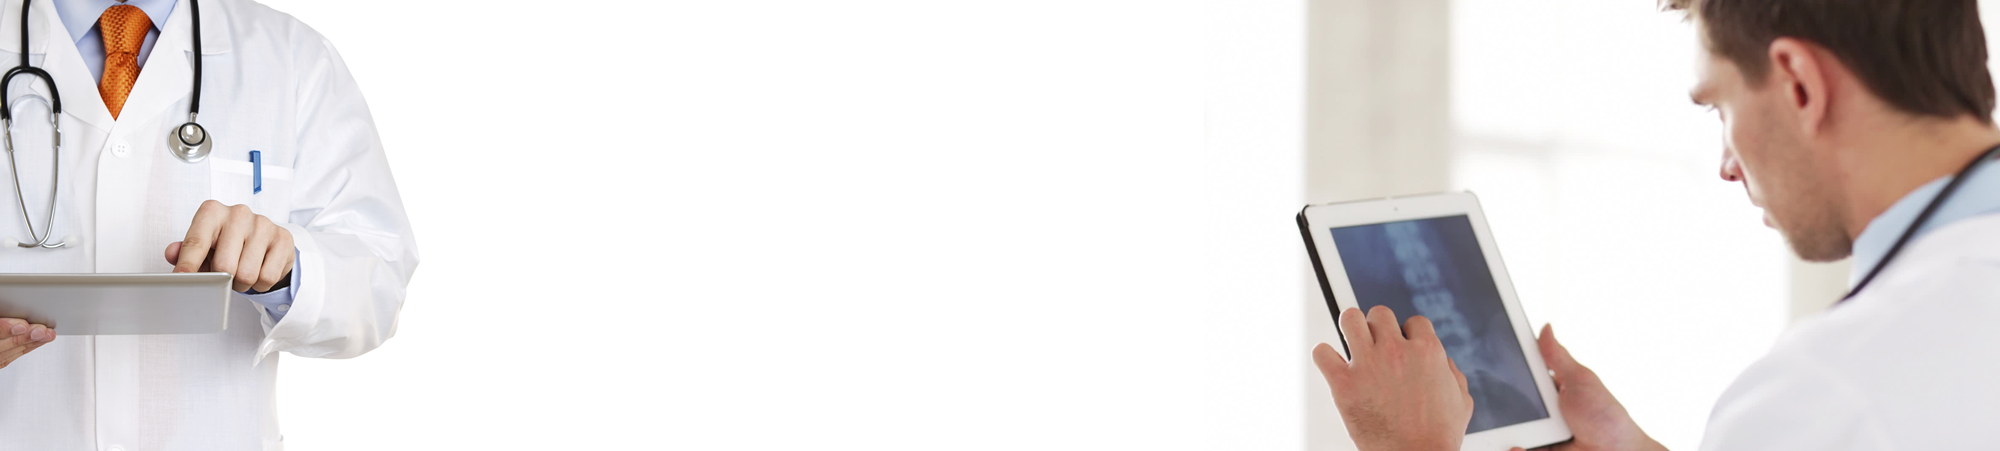
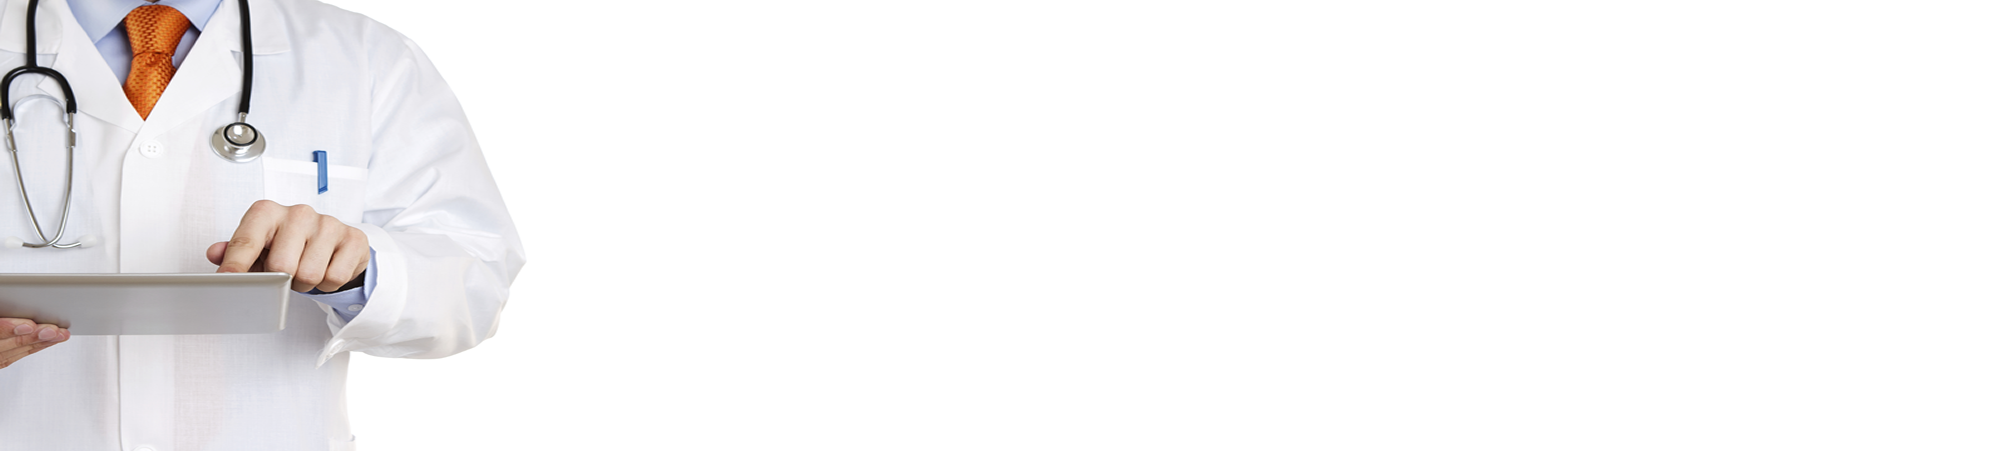
AJUSTES de imagenes, espaciado en responsive desing a intro

diff --git a/css/intro.css b/css/intro.css
@@ -1,2 +1,2 @@
 /* normalize.css v3.0.2 | MIT License | git.io/normalize */
-html{font-family:sans-serif;-ms-text-size-adjust:100%;-webkit-text-size-adjust:100%;}body{margin:0}article,aside,details,figcaption,figure,footer,header,hgroup,main,menu,nav,section,summary{display:block}audio,canvas,progress,video{display:inline-block;vertical-align:baseline;}audio:not([controls]){display:none;height:0}[hidden],template{display:none}a{background-color:transparent}a:active,a:hover{outline:0}abbr[title]{border-bottom:1px dotted}b,strong{font-weight:bold}dfn{font-style:italic}h1{font-size:2em;margin:.67em 0}mark{background:#ff0;color:#000}small{font-size:80%}sub,sup{font-size:75%;line-height:0;position:relative;vertical-align:baseline}sup{top:-.5em}sub{bottom:-.25em}img{border:0}svg:not(:root){overflow:hidden}figure{margin:1em 40px}hr{-moz-box-sizing:content-box;box-sizing:content-box;height:0}pre{overflow:auto}code,kbd,pre,samp{font-family:monospace,monospace;font-size:1em}button,input,optgroup,select,textarea{color:inherit;font:inherit;margin:0;}button{overflow:visible}button,select{text-transform:none}button,html input[type="button"],input[type="reset"],input[type="submit"]{-webkit-appearance:button;cursor:pointer;}button[disabled],html input[disabled]{cursor:default}button::-moz-focus-inner,input::-moz-focus-inner{border:0;padding:0}input{line-height:normal}input[type="checkbox"],input[type="radio"]{box-sizing:border-box;padding:0;}input[type="number"]::-webkit-inner-spin-button,input[type="number"]::-webkit-outer-spin-button{height:auto}input[type="search"]{-webkit-appearance:textfield;-moz-box-sizing:content-box;-webkit-box-sizing:content-box;box-sizing:content-box}input[type="search"]::-webkit-search-cancel-button,input[type="search"]::-webkit-search-decoration{-webkit-appearance:none}fieldset{border:1px solid #c0c0c0;margin:0 2px;padding:.35em .625em .75em}legend{border:0;padding:0;}textarea{overflow:auto}optgroup{font-weight:bold}table{border-collapse:collapse;border-spacing:0}td,th{padding:0}@media only screen and (max-width:1024px){}.font-black{color:#000}.font-white{color:#fff}body{background:#fff url("../images/pattern.png") repeat top left;font-family:'PT Sans Narrow',Arial,sans-serif;font-size:16px;}body a{text-decoration:none;color:#000}body h2{font-size:1.1rem;text-align:center}.header{color:#fff;position:fixed;width:100%;height:25px;line-height:24px;top:0;font-size:.8rem;background-color:#0055a5;opacity:.9;z-index:4}.header a{padding:5px 10px;letter-spacing:1px;color:#fff;text-align:right;text-decoration:none}.header a:hover{color:#fff}.header a span{font-weight:bold;text-transform:uppercase}.header span.right_ab{position:absolute;right:4px}#logo img{width:200px;height:100px}#logo h1{margin:0 50px;color:#b60050;text-transform:uppercase}#logo span{display:block;font-size:16px;text-transform:none;margin:-15px 70px}.container{width:100%;height:auto;position:relative;z-index:100;margin:40px 0;padding:0}.va-container{position:relative;margin:40px auto}.va-wrapper{width:100%;height:100%;position:relative;overflow:hidden;background-color:#0055a5}.va-title{font-family:'Open Sans Condensed',sans-serif;text-transform:uppercase;font-size:2rem;margin-left:300px;margin-top:-30px;color:#000;text-shadow:5px 5px 8px #555;text-align:center}.va-content{display:none;margin-left:400px;width:100%}.va-slice{cursor:pointer;width:100%;overflow:hidden;}.va-slice p{font-size:22px;font-style:italic;font-family:Georgia,serif}.va-slice ul{list-style:none}.va-slice ul li{float:left;margin:0 30px}.va-slice ul li a{color:#fff;background:#b60050;padding:10px 6px;font-size:14px;font-family:'PT Sans',sans-serif;text-transform:uppercase;text-decoration:none}.va-slice ul li a:hover{background:#000;color:#fff;text-shadow:none}.va-slice-1{background:#fff url("../images/version-medico.png") no-repeat center center;background-size:100% 100%}.va-slice-2{background:#fff url("../images/version-paciente.png") no-repeat center center;background-size:100% 100%}.va-slice-3{background:#fff url("../images/atenea-pharma.png") no-repeat center center;background-size:100% 100%}.va-nav span{width:40px;height:25px;background:transparent url("../images/prev.png") no-repeat center center;position:absolute;top:-35px;left:50%;margin-left:-20px;text-indent:-9000px;opacity:.7;cursor:pointer;display:none;z-index:100}.va-nav span.va-nav-next{background-image:url("../images/next.png");top:auto;bottom:-35px}.va-nav span:hover{opacity:1}footer{text-align:center;Vertical-align:center;width:100%;height:70px;background-color:#0055a5;color:#fff;margin:0 auto;padding-top:50px;padding:10px 0}footer .cpy{font-size:1.3rem}.button{width:70px;background:#ff0;display:inline-block;margin:0 auto;margin-top:1%;padding:1px;text-align:center;text-decoration:none;color:#fff !important;cursor:pointer;transition:background .3s;-webkit-transition:background .3s}.button:hover{background-color:#ccc}#login{margin:0 auto;margin-top:0;transition:opacity 1s;-webkit-transition:opacity 1s}#triangle{width:0;border-top:12px solid transparent;border-right:12px solid transparent;border-bottom:12px solid #39c;border-left:12px solid transparent;margin:0 auto}#login h1{background:#b60050;padding:10px;font-size:140%;font-weight:300;text-align:center;color:#fff;width:100%;margin:0}form{background:#f0f0f0;text-align:center;width:100%;-webkit-animation:all 3s ease-in-out;-moz-animation:all 3s ease-in-out;-ms-animation:all 3s ease-in-out;-o-animation:all 3s ease-in-out;animation:all 3s ease-in-out;}form input[type="email"],form input[type="password"],form width 150px,form background #fff,form border 1px solid #ccc,form font-family 'Open Sans',form sans-serif,form font-size 95%,form color #555,form input[type="submit"],form width 120px,form background #3399cc,form border 0,form font-size 100%,form color #fff,form cursor pointer,form transition background .3s,form -webkit-transition background .3s,form input[type="submit"]:hover{background:#28b}
+html{font-family:sans-serif;-ms-text-size-adjust:100%;-webkit-text-size-adjust:100%;}body{margin:0}article,aside,details,figcaption,figure,footer,header,hgroup,main,menu,nav,section,summary{display:block}audio,canvas,progress,video{display:inline-block;vertical-align:baseline;}audio:not([controls]){display:none;height:0}[hidden],template{display:none}a{background-color:transparent}a:active,a:hover{outline:0}abbr[title]{border-bottom:1px dotted}b,strong{font-weight:bold}dfn{font-style:italic}h1{font-size:2em;margin:.67em 0}mark{background:#ff0;color:#000}small{font-size:80%}sub,sup{font-size:75%;line-height:0;position:relative;vertical-align:baseline}sup{top:-.5em}sub{bottom:-.25em}img{border:0}svg:not(:root){overflow:hidden}figure{margin:1em 40px}hr{-moz-box-sizing:content-box;box-sizing:content-box;height:0}pre{overflow:auto}code,kbd,pre,samp{font-family:monospace,monospace;font-size:1em}button,input,optgroup,select,textarea{color:inherit;font:inherit;margin:0;}button{overflow:visible}button,select{text-transform:none}button,html input[type="button"],input[type="reset"],input[type="submit"]{-webkit-appearance:button;cursor:pointer;}button[disabled],html input[disabled]{cursor:default}button::-moz-focus-inner,input::-moz-focus-inner{border:0;padding:0}input{line-height:normal}input[type="checkbox"],input[type="radio"]{box-sizing:border-box;padding:0;}input[type="number"]::-webkit-inner-spin-button,input[type="number"]::-webkit-outer-spin-button{height:auto}input[type="search"]{-webkit-appearance:textfield;-moz-box-sizing:content-box;-webkit-box-sizing:content-box;box-sizing:content-box}input[type="search"]::-webkit-search-cancel-button,input[type="search"]::-webkit-search-decoration{-webkit-appearance:none}fieldset{border:1px solid #c0c0c0;margin:0 2px;padding:.35em .625em .75em}legend{border:0;padding:0;}textarea{overflow:auto}optgroup{font-weight:bold}table{border-collapse:collapse;border-spacing:0}td,th{padding:0}@media only screen and (max-width:1000px){body{margin:5px}.header a span{font-size:11px}.header span.right_ab{display:none}.va-wrapper{width:400px;height:100%;position:relative;overflow:hidden}.va-title{font-size:16px !important;margin-left:0 !important;text-align:right !important}footer{text-align:center;Vertical-align:center;width:100%;height:auto;background-color:$atenea_azul;color:#fff;}footer .cpy,footer .date{font-size:.7rem !important}}.font-black{color:#000}.font-white{color:#fff}body{background:#fff url("../images/pattern.png") repeat top left;font-family:'PT Sans Narrow',Arial,sans-serif;font-size:16px;}body a{text-decoration:none;color:#000}body h2{font-size:1.1rem;text-align:center}.header{color:#fff;position:fixed;width:100%;height:25px;line-height:24px;top:0;font-size:.8rem;background-color:#0055a5;opacity:.9;z-index:4}.header a{padding:5px 10px;letter-spacing:1px;color:#fff;text-align:right;text-decoration:none}.header a:hover{color:#fff}.header a span{font-weight:bold;text-transform:uppercase}.header span.right_ab{position:absolute;right:4px}#logo img{width:200px;height:100px}#logo h1{margin:50px 50px;color:#b60050;text-transform:uppercase}#logo span{display:block;font-size:16px;text-transform:none;margin:-15px 70px}.container{width:100%;height:auto;position:relative;z-index:100;margin:40px 0;padding:0}.va-container{position:relative;margin:40px auto}.va-wrapper{width:100%;height:100%;position:relative;overflow:hidden}.va-title{font-family:'Open Sans Condensed',sans-serif;text-transform:uppercase;font-size:2rem;margin-left:300px;margin-top:-30px;color:#000;text-shadow:5px 5px 8px #555;text-align:center}.va-content{display:none;margin-left:400px;width:100%}.va-slice{cursor:pointer;width:100%;overflow:hidden;}.va-slice p{font-size:22px;font-style:italic;font-family:Georgia,serif}.va-slice ul{list-style:none}.va-slice ul li{float:left;margin:0 30px}.va-slice ul li a{color:#fff;background:#b60050;padding:10px 6px;font-size:14px;font-family:'PT Sans',sans-serif;text-transform:uppercase;text-decoration:none}.va-slice ul li a:hover{background:#000;color:#fff;text-shadow:none}.va-slice-1{background:#fff url("../images/version-medico.png") no-repeat center center;background-size:100% 100%}.va-slice-2{background:#fff url("../images/version-publico.png") no-repeat center center;background-size:100% 100%}.va-slice-3{background:#fff url("../images/atenea-pharma.png") no-repeat center center;background-size:100% 100%}.va-nav span{width:40px;height:25px;background:transparent url("../images/prev.png") no-repeat center center;position:absolute;top:-35px;left:50%;margin-left:-20px;text-indent:-9000px;opacity:.7;cursor:pointer;display:none;z-index:100}.va-nav span.va-nav-next{background-image:url("../images/next.png");top:auto;bottom:-35px}.va-nav span:hover{opacity:1}footer{text-align:center;Vertical-align:center;width:100%;height:auto;background-color:#0055a5;color:#fff;margin:5px auto;}footer .cpy{font-size:1.3rem;padding:10px 0}.button{width:70px;background:#ff0;display:inline-block;margin:0 auto;margin-top:1%;padding:1px;text-align:center;text-decoration:none;color:#fff !important;cursor:pointer;transition:background .3s;-webkit-transition:background .3s}.button:hover{background-color:#ccc}#login{margin:0 auto;margin-top:0;transition:opacity 1s;-webkit-transition:opacity 1s}#triangle{width:0;border-top:12px solid transparent;border-right:12px solid transparent;border-bottom:12px solid #39c;border-left:12px solid transparent;margin:0 auto}#login h1{background:#b60050;padding:10px;font-size:140%;font-weight:300;text-align:center;color:#fff;width:100%;margin:0}form{background:#f0f0f0;text-align:center;width:100%;-webkit-animation:all 3s ease-in-out;-moz-animation:all 3s ease-in-out;-ms-animation:all 3s ease-in-out;-o-animation:all 3s ease-in-out;animation:all 3s ease-in-out;}form input[type="email"],form input[type="password"],form width 150px,form background #fff,form border 1px solid #ccc,form font-family 'Open Sans',form sans-serif,form font-size 95%,form color #555,form input[type="submit"],form width 120px,form background #3399cc,form border 0,form font-size 100%,form color #fff,form cursor pointer,form transition background .3s,form -webkit-transition background .3s,form input[type="submit"]:hover{background:#28b}

diff --git a/index.php b/index.php
@@ -38,7 +38,7 @@
 				<span>Una Publicación más de Atenea Pharma</span>
 			</a>
 			<span class="right_ab">
-				Para continuar, es necesario<strong><a href="#">Registrarse</a></strong>El Médico Profesionista podrá consultar información exclusiva e información de eventos y congresos.
+				Para continuar, es necesario<strong><a href="#">Registrarse</a></strong>El Médico Profesionista podrá consultar información exclusiva sobre eventos, congresos y entrevistas.
 			</span>
 		</div>
 						<!--LOGIN-->
@@ -75,7 +75,7 @@
 						<div class="va-content">
 							<p>Acceso Suscriptores</p>
 							<ul>						
-								<li id="toggle-login"><a href="medico">Entrar</a></li>
+								<li id="toggle-login"><a href="#">Entrar</a></li>
 								<li><a href="registro-revista-relax.html">Registrarse</a></li>
 								<li><a href="#">¿Por qué registrarme?</a></li>
 							</ul>
@@ -86,11 +86,11 @@
 					</div>
 
 					<div class="va-slice va-slice-2">
-						<h3 class="va-title">Versión para el Paciente</h3>
+						<h3 class="va-title">Versión para Público</h3>
 						<div class="va-content">
 							<p>Acceso Público</p>
 							<ul>
-								<li><a href="http://www.revistarelax.com/v1/">Entrar</a></li>
+								<li><a href="#">Entrar</a></li>
 							</ul>
 						</div>	
 					</div>			
